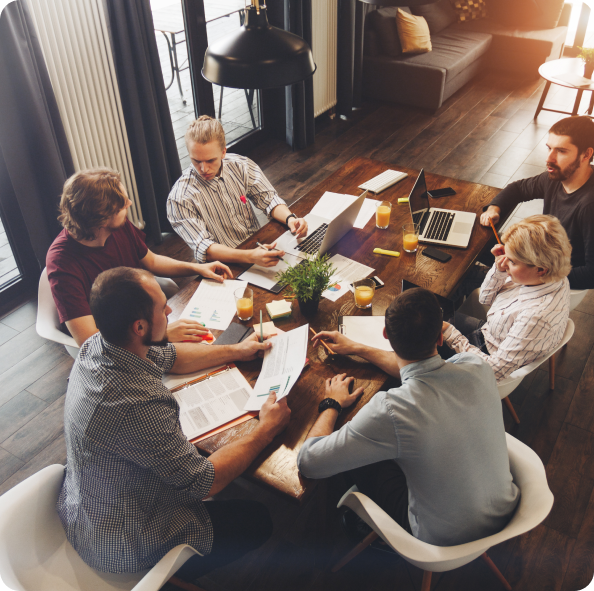
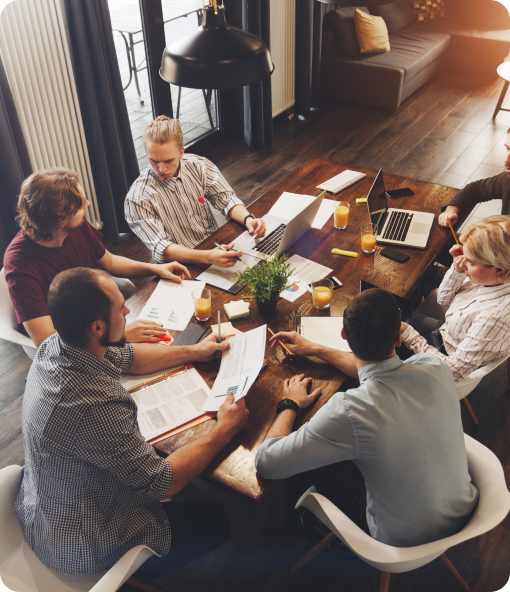
FIX image sizes

diff --git a/components/about/HiringForm.jsx b/components/about/HiringForm.jsx
@@ -313,7 +313,6 @@ const HiringForm = () => {
                                 name='file'
                                 multiple={false}
                                 accept={[MIME_TYPES.pdf]}
-                                maxSize={30 * 1024 ** 2}
                             >
                                 <div style={{ pointerEvents: 'none' }}>
                                     <Group position='center'>

diff --git a/components/banner/DetailServiceBanner.jsx b/components/banner/DetailServiceBanner.jsx
@@ -149,12 +149,12 @@ const ImageWrapper = styled.div`
     top: -20%;
 
     width: 500px;
-    height: 600px;
+    height: 582px;
 
     @media screen and (max-width: 1380px) {
         top: -10%;
         width: 450px;
-        height: 600px;
+        height: 532px;
     }
 `
 
